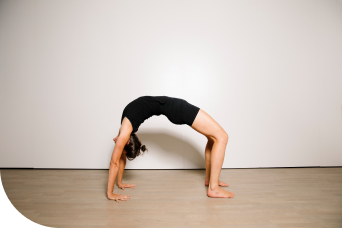
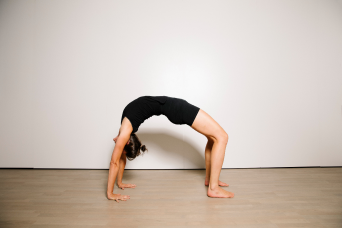
Changed rounded corners for images, button in header

Changed region(s): [[0.0, 0.7675, 0.1754, 1.0]]

diff --git a/assets/main.scss b/assets/main.scss
@@ -21,23 +21,28 @@ $background-color: #FFFCFC;
  * Header
  */
 
-header.site-header {
-	position: absolute;
-	top: 15px;
-  border: 0px;
-  width: 100%;
-  z-index: 999;
+header {
+	.btn-primary {
+		border-radius: 12px; 
+		padding: 12px;
+	}
+	&.site-header {
+		position: absolute;
+		top: 15px;
+	  border: 0px;
+	  width: 100%;
+	  z-index: 999;
+	  .site-nav {
+			float: none;
+		}
+		.page-links {
+			display: flex;
+		  justify-content: space-around;
+		  align-items: center;
+		  flex-wrap: nowrap;
+		}
+	}
 }
-header.site-header .site-nav {
-	float: none;
-}
-header .page-links {
-	display: flex;
-  justify-content: space-around;
-  align-items: center;
-  flex-wrap: nowrap;
-}
-
 /*
 @media screen and (min-width: $on-laptop * 2) {
 	.wrapper {
@@ -255,6 +260,14 @@ a {
 	
 }
 
+.single-rounded-corner {
+	border-radius: 0 0 60px 0;
+}
+
+.rounded-corners {
+	border-radius: 60px 0 60px 0;
+}
+
 /*
 ************ Footer
 */
@@ -273,7 +286,7 @@ a {
 		text-align: center;
 	} 
 
-	.newsletter {
+	#newsletter {
 		padding: 50px 0;
 		text-align: center;
 	}

diff --git a/_includes/header.html b/_includes/header.html
@@ -28,7 +28,7 @@
           <img src="/assets/imgs/nav-icons/{{ section.id }}.png" alt="{{ section.alt }}" width="62.15" height="85">
         </a>
         {%- endfor -%}
-        <a class="btn-primary" style="border: 1px solid grey; border-radius: 12px; padding: 7px;">Book now</a>
+        <a class="btn-primary" href="https://site.arboxapp.com/schedule?identifier=SwxyldKI&whitelabel=Arbox&referer=SITE&lang=en&scheduleType=workshops" target="_blank">Buchen</a>
       </div>
     </div>
   </nav>

diff --git a/_includes/footer.html b/_includes/footer.html
@@ -1,7 +1,7 @@
 <footer id="footer" class="site-footer h-card">
   <data class="u-url" href="{{ "/" | relative_url }}"></data>
   <div class="wrapper">  
-    <div class="newsletter">
+    <div id="newsletter">
       <h2>Melde dich zu meinem Newsletter an</h2>
       <a class="btn-primary" href="{{ site.newsletter }}" target="_blank">Zum Newsletter</a>
     </div>
